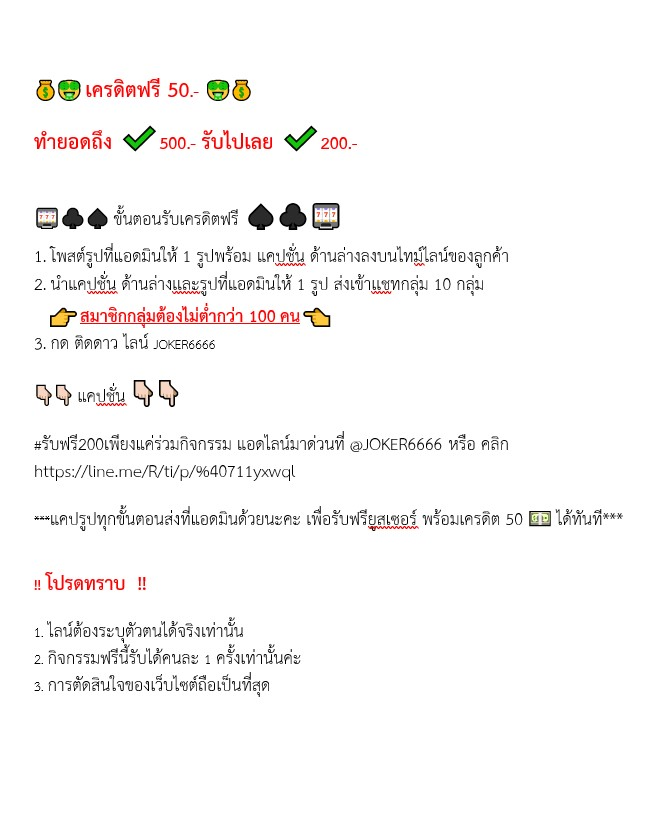
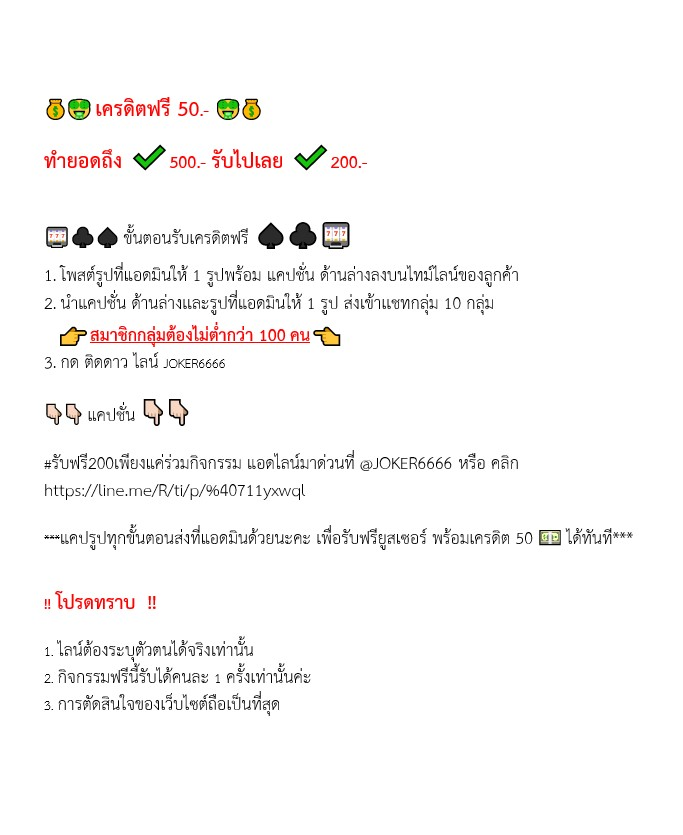
update profreeline50

diff --git a/proline.html b/proline.html
@@ -6,6 +6,6 @@
         </title>
     </head>
     <body>
-        <img src="detail_pro_linefree50.jpg"></img>
+        <img src="detail_pro_linefree50.jpg" width="100%"></img>
     </body>
 </html>
